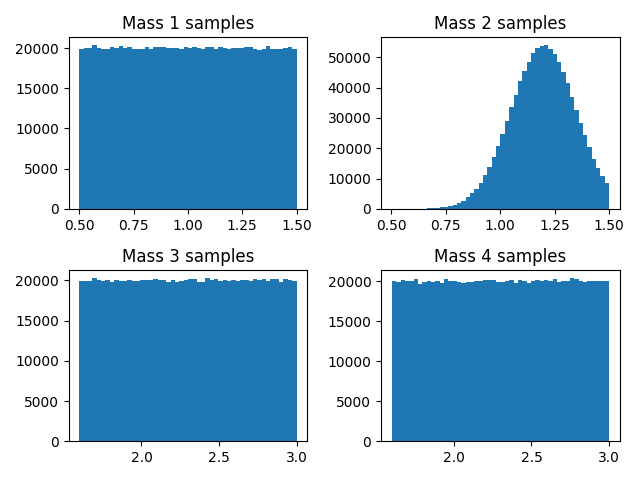
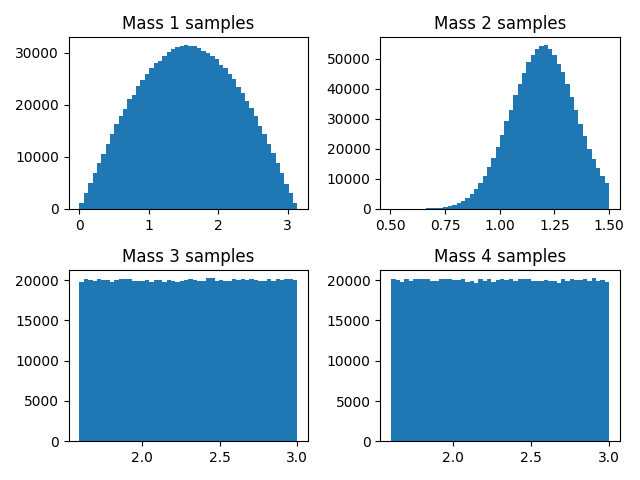
Updated distributions

diff --git a/Testbed/plotDistributions.py b/Testbed/plotDistributions.py
@@ -5,7 +5,7 @@ from pycbc.inference import distributions
 
 # Create a mass distribution object that is uniform between 0.5 and 1.5
 # solar masses.
-mass1_distribution = distributions.Uniform(mass1=(0.5, 1.5))
+mass1_distribution = distributions.SinAngle(mass1=(0,1))
 # Take 100000 random variable samples from this uniform mass distribution.
 mass1_samples = mass1_distribution.rvs(size=1000000)
 
